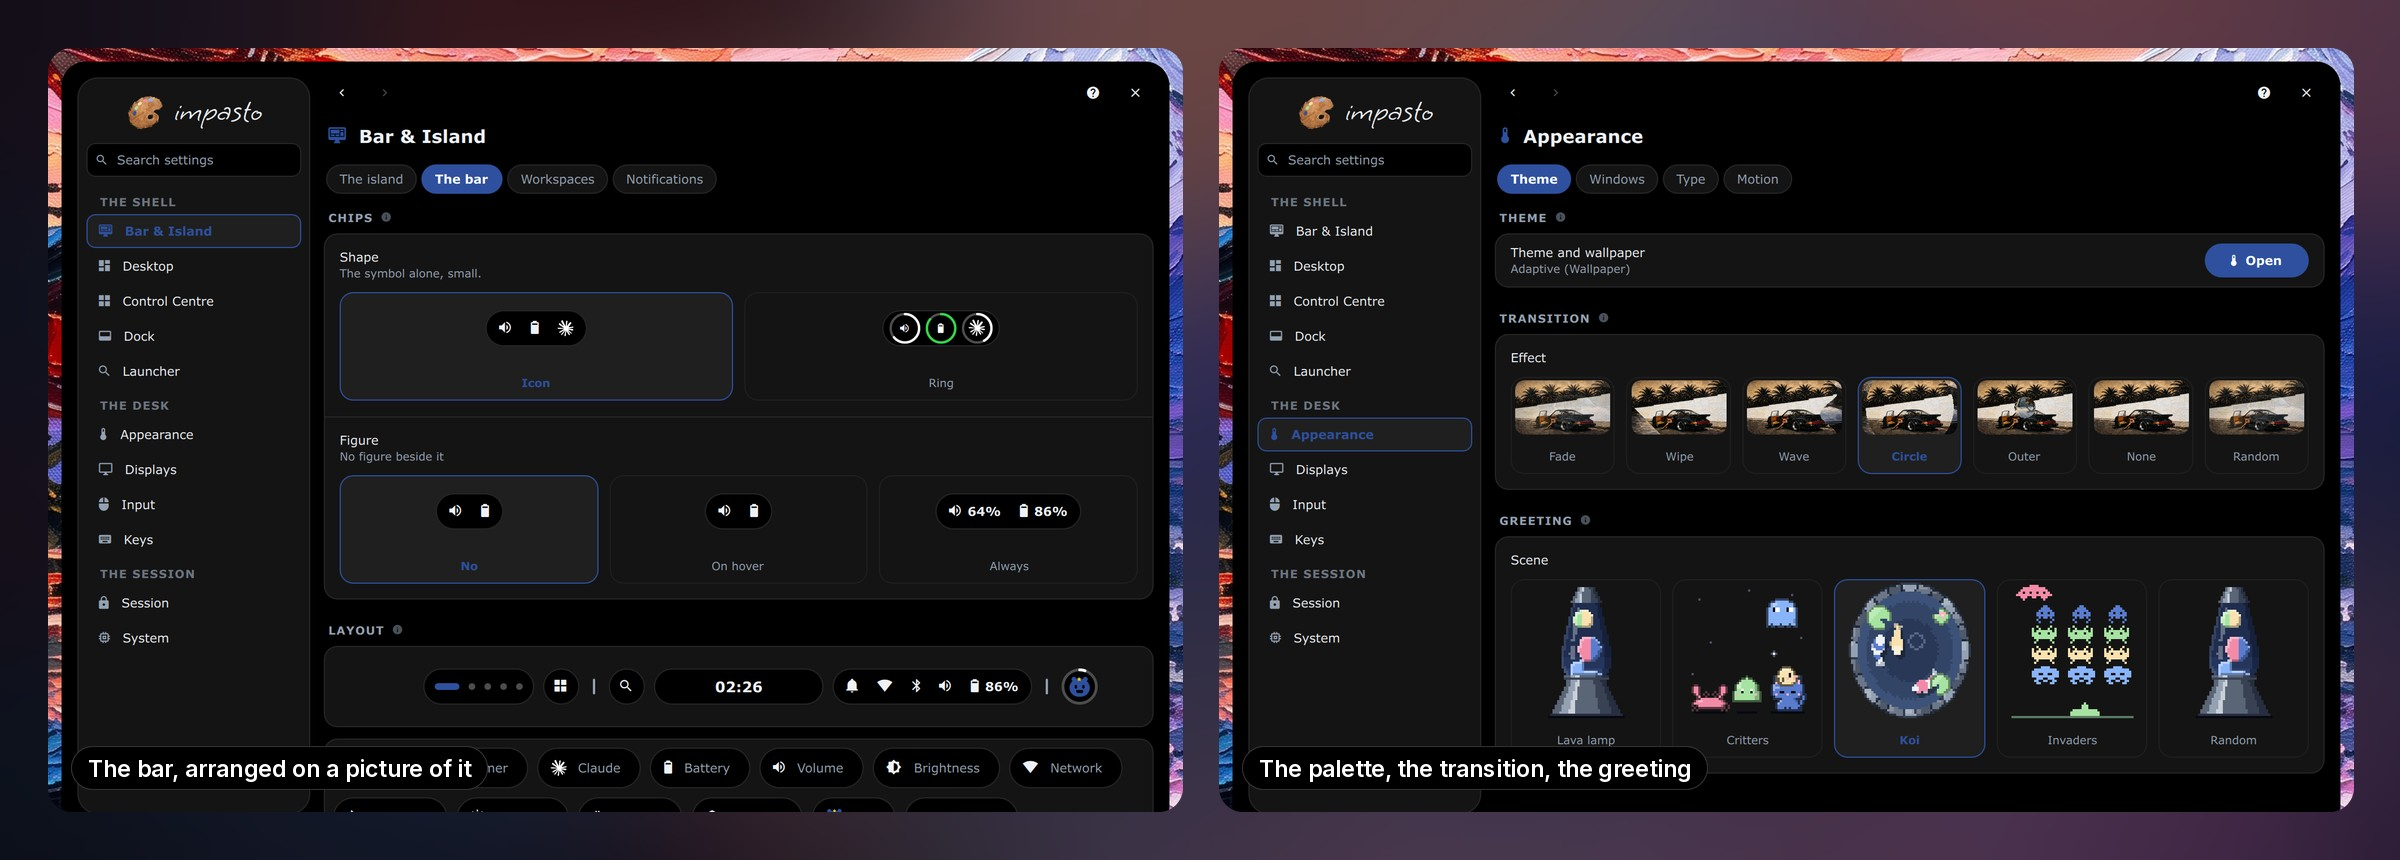
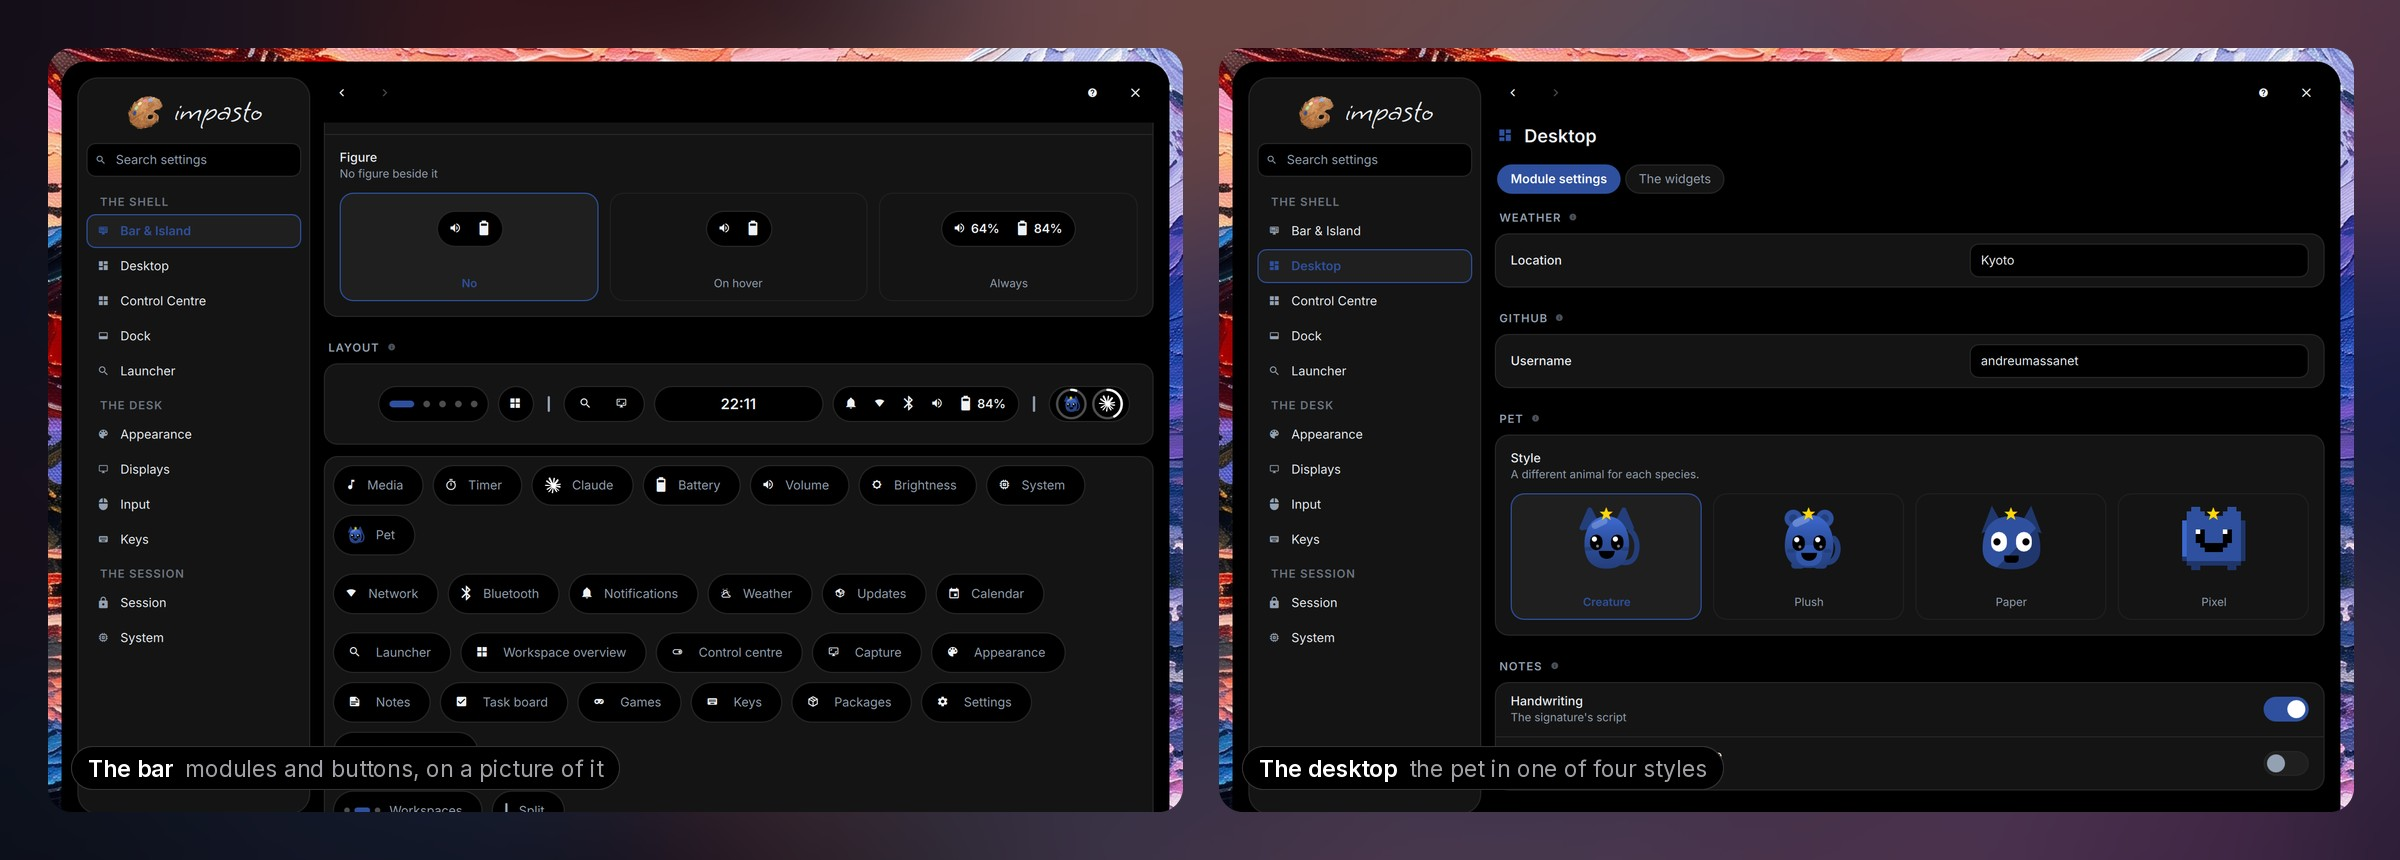
docs(readme): describe 0.3.0 and retake the pictures it made stale
The bar is sorted into modules and buttons, every screen carries it, the
spectrum sits on the desktop and the pets come in four styles, and the text
says so; the installer upgrades the system as it installs packages, and
ddcutil joins the components.

Five pictures are new, shot in a nested Hyprland with a sandboxed shell:
the lock at rest and scanning beside the new login screen, the arcade's
restyled boards and the pets, every module's detail without the recorder,
the three bar styles with a capture button, and the settings with the
editor's catalogue and the pet's styles.

diff --git a/README.md b/README.md
@@ -51,7 +51,7 @@ is running sits either side of the time, and every module on the bar opens into
 the island rather than into a popup of its own.
 
 <p align="center">
-  <img src=".github/assets/island-details.jpg" alt="Module details in the island: the player, the battery, Claude Code's usage, the processor and memory, the recorder, the Wi-Fi list, the weather, the pet, the volume, the month with task dots, the tasks, a countdown and the GitHub wall" width="100%">
+  <img src=".github/assets/island-details.jpg" alt="Module details in the island: the player, the battery, Claude Code's usage, the processor and memory, the volume, the Wi-Fi list, the weather, the pet, the month with task dots, the tasks, a countdown and the GitHub wall" width="100%">
 </p>
 
 ## The bar
@@ -62,9 +62,17 @@ the island rather than into a popup of its own.
 
 **Three styles, one layout.** Pieces are dragged out of a catalogue onto a
 picture of the bar, then drawn grouped round the island, spread to the edges, or
-all inside one capsule. Each shows its symbol or its ring, with its figure
+all inside one capsule. A module tells you something and opens its detail; a
+button opens something — any panel the control centre does, the capture
+surface, or Settings. Each shows its symbol or its ring, with its figure
 always, never or under the pointer — two settings for the whole bar, and any
 piece can have a look of its own.
+
+**On more than one screen, every screen gets the whole bar**, and the island is
+live on the one you are typing on. Each screen keeps widgets and notes of its
+own and the dock is on all of them, a workspace number brings that workspace to
+the screen you are on, and the brightness keys dim that screen — an external
+monitor over DDC/CI.
 
 ## The launcher and the dock
 
@@ -93,7 +101,9 @@ opens that widget's own look — for a photo widget, the picture of your own it
 holds.
 
 **Two themes on the same modules**: *Modern* is a figure with a caption,
-*Analogue* draws each one as an object, and either is a choice per widget.
+*Analogue* draws each one as an object, and either is a choice per widget. A
+spectrum of whatever is playing sits on the grid as bare bars, or runs along a
+whole edge under the windows.
 
 <p align="center">
   <img src=".github/assets/repaint.gif" alt="The wallpaper changing three times, and the bar, the widgets, the terminal and the system monitor repainting with each one" width="100%">
@@ -125,18 +135,19 @@ month wherever a month is drawn.
 ## Games and pets
 
 <p align="center">
-  <img src=".github/assets/games-and-pets.jpg" alt="Tetris and Flood Colors played in the island, and the pets' page with Pip out and the rest of the family waiting" width="100%">
+  <img src=".github/assets/games-and-pets.jpg" alt="Tetris and Whack-a-Mole played in the island, and the pets' page with Pip out and the rest of the family waiting" width="100%">
 </p>
 
 **Eleven small games, played in the island** — `SUPER + G` opens a shelf, and
 the island becomes the board. **A family of five small creatures lives on the
 bar**: one out at a time, earning levels from being fed and played with, each
-hatched from an egg. Nothing dies, and a week away costs nothing.
+hatched from an egg and drawn in one of four styles. Nothing dies, and a week
+away costs nothing.
 
 ## Lock and login
 
 <p align="center">
-  <img src=".github/assets/lock-and-login.jpg" alt="The lock screen over the blurred desk, and the SDDM login screen over a blurred painting — the same island, the same clock, the same pill" width="100%">
+  <img src=".github/assets/lock-and-login.jpg" alt="The lock screen resting on its clock over the blurred desk, the island growing round the padlock while it looks for a face, and the SDDM login screen over a blurred painting — the same island, clock and pill" width="100%">
 </p>
 
 **The shell locks the session itself**, over the blurred desk, and the login
@@ -158,7 +169,7 @@ password after a boot.
 ## Settings
 
 <p align="center">
-  <img src=".github/assets/settings.jpg" alt="Two pages of the settings window: the bar arranged on a picture of it, and the appearance with the wallpaper transitions and the greeting scenes" width="100%">
+  <img src=".github/assets/settings.jpg" alt="Two pages of the settings window: the bar arranged on a picture of it from a catalogue of modules and buttons, and the desktop's module settings with the pet drawn in its four styles" width="100%">
 </p>
 
 **Settings is the one panel that is not the island** — an ordinary window where
@@ -178,17 +189,18 @@ cd ~/impasto
 ./setup install
 ```
 
-It installs the packages, oh-my-zsh, everything in `home/` into your home and
-everything in `system/` into `/`, the two Hyprland plugins and the vector
-cursor, and the login screen, switched on unless your machine already uses
-another display manager. It sets up Thunar, VSCodium, Vesktop and Spotify, dark GTK
+It installs the packages it is missing — upgrading the system in the same step,
+as Arch asks — oh-my-zsh, everything in `home/` into your home and everything
+in `system/` into `/`, the two Hyprland plugins and the vector cursor, and the
+login screen, switched on unless your machine already uses another display
+manager. It sets up Thunar, VSCodium, Vesktop and Spotify, dark GTK
 applications, and what opens which kind of file — leaving alone any your
 machine already has an answer for. Where there is an infrared camera it
-installs howdy-next and asks to enrol your face. It asks for your password through sudo for
-pacman, for the copy into `/`, and to let spicetify patch Spotify. A program
-that is open, or a Spotify you have never started, is skipped with the reason
-and set up by the next `update`. After that they follow the wallpaper on their
-own; Spotify from its next start.
+installs howdy-next and asks to enrol your face. It asks for your password
+through sudo for pacman, for the copy into `/`, and to let spicetify patch
+Spotify. A program that is open, or a Spotify you have never started, is
+skipped with the reason and set up by the next `update`. After that they follow
+the wallpaper on their own; Spotify from its next start.
 
 Run `./setup` with nothing after it and it asks instead: the verbs on one
 screen, and what an install may leave out on the next, which is the flags below
@@ -251,6 +263,7 @@ rather than failing.
 | 💬 | Chat | [Vesktop](https://github.com/Vencord/Vesktop) |
 | 🎧 | Player | [Spotify](https://www.spotify.com) · [spicetify](https://spicetify.app) |
 | 🌐 | Browser | [Zen](https://zen-browser.app) |
+| 🔆 | Monitor brightness | [ddcutil](https://www.ddcutil.com) |
 | 🔑 | Login screen | [SDDM](https://github.com/sddm/sddm) |
 | 👤 | Face unlock | [howdy-next](https://codeberg.org/nathawat/howdy-next) |
 
